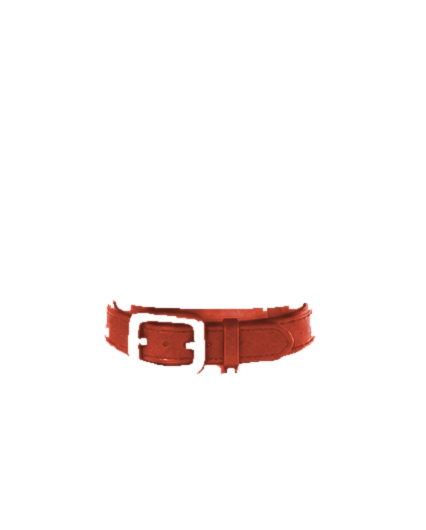
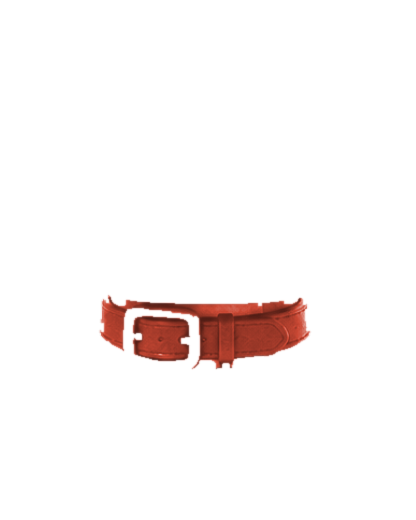
Art: the outline comes off, because it was never the reference's
Operator: "I don't like that art style, it's too Big Nate."

That is the most precise note this art has had and it is correct. A thick
uniform black contour over flat fill IS newspaper-comic language, and it
is the opposite of the target: Brawl Stars and Clash Mini models carry no
outline at all -- their forms are read by shading, occlusion and a lit
edge. The contour was our invention, added in the pass that created
ink.py, and it has been fighting the reference ever since.

I HAD ALREADY OFFERED THIS AND THEN TALKED HIM OUT OF IT. "No outline" was
style C on the first probe sheet, and I ruled it out myself on the grounds
that Barkly carries a baked contour and would be left the only outlined
thing in frame. He does not, and checking took one command:

  assets/barkly/renders/front.png   locked canon, NO contour
  assets/barkly/outlined/front.png  the same file with the world's edge
                                    grown onto it by outline-cast.py,
                                    using promote-props' own function

Side by side the canon render reads as a vinyl toy and the outlined copy
reads as a sticker. The best asset in the game was being flattened by a
finish we applied on top of it, and that finish was reversible the whole
time. The constraint I used to close down the right answer was one I had
assumed rather than checked.

ONE CONSTANT, because the edge was always decided in one place -- which is
[…]

Changed region(s): [[0.2188, 0.5538, 0.75, 0.7077]]

diff --git a/barkly/app/tools/blender/ink.py b/barkly/app/tools/blender/ink.py
@@ -35,6 +35,33 @@ from pathlib import Path
 sys.path.insert(0, str(Path(__file__).resolve().parent))
 from palette import tone  # noqa: E402
 
+#: IS THERE AN EDGE AT ALL? Operator, 2026-09-10: *"I don't like that art
+#: style, it's too Big Nate."*
+#:
+#: That is the most precise note this art has had. A thick uniform black
+#: contour over flat fill IS newspaper-comic language -- and it is the opposite
+#: of the reference: Brawl Stars and Clash Mini models carry NO outline. Their
+#: forms are read by shading, occlusion and a lit edge. The contour was our
+#: invention, added in the pass that named this file, and it has been quietly
+#: fighting the target ever since.
+#:
+#: The evidence that settled it is the hero. `assets/barkly/renders/front.png`
+#: is the locked canon and has no contour; `assets/barkly/outlined/front.png`
+#: is that same file with this edge grown onto it, which is what the app draws.
+#: Side by side the canon render reads as a vinyl toy and the outlined copy
+#: reads as a sticker. The best asset in the game was being flattened by a
+#: finish applied on top of it.
+#:
+#: THE REASON THIS IS ONE CONSTANT and not a rewrite: the edge was always
+#: decided here and applied by three consumers that all ask this module first
+#: (`promote-props.py`, the prop packs' Freestyle, `outline-cast.py`). Turning
+#: it off turns it off everywhere, including on the cast -- `outlined/` becomes
+#: a byte-identical copy of `renders/`, so no app code changes and the canon
+#: renders are untouched, exactly as they were when the contour went on.
+#:
+#: Flip this to True and the whole game has its edge back.
+CONTOUR = False
+
 #: The world's darkest neutral, and the only colour any edge in the game is.
 INK = tone("ink", "deep")
 
@@ -50,6 +77,8 @@ EXEMPT_WORDS = ("shadow", "haze", "glow", "surf")
 
 def takes_ink(path: str) -> bool:
     """Does the prop at this BUILDERS path get an edge at all?"""
+    if not CONTOUR:
+        return False
     if any(path.startswith(prefix) for prefix in EXEMPT_PREFIXES):
         return False
     return not any(word in path for word in EXEMPT_WORDS)
@@ -61,5 +90,11 @@ def contour_width(width: int) -> int:
     A constant pixel count would give the storefront a hairline and the treat
     icon a bruise: they ship at 640 and 224. Proportional keeps the weight even
     once the app has scaled them back into the same world.
+
+    Zero when `CONTOUR` is off, so the one switch reaches the callers that ask
+    for a WIDTH rather than for permission -- `outline-cast.py` and the item
+    icons' inner box both size themselves off this.
     """
+    if not CONTOUR:
+        return 0
     return max(3, round(width * 0.011))

diff --git a/barkly/docs/ART_DIRECTION.md b/barkly/docs/ART_DIRECTION.md
@@ -2225,3 +2225,63 @@ its two low lobes are `foliage.deep` (0.19) now, which is the underside, and an
 underside is meant to be dark. The old note forbidding `deep` there was written
 when the tone alternated over half the canopy — true then, and not true once
 the canopy became a cluster.
+
+## "Too Big Nate" — the outline comes off (2026-09-10)
+
+Operator, on the smoothed and re-toned build: *"I don't like that art style,
+it's too Big Nate."*
+
+That is the most precise note this art has had, and it is correct. A thick
+uniform black contour over flat fill IS newspaper-comic language. It is also
+the opposite of the reference: **Brawl Stars and Clash Mini models carry no
+outline at all** — their forms are read by shading, occlusion and a lit edge.
+The contour was our invention, added in the pass that created `ink.py`, and it
+has been quietly fighting the target ever since.
+
+I had already put "no outline" in front of him as style C and then **ruled it
+out myself, wrongly**, on the grounds that Barkly carries a baked contour and
+would be left the only outlined thing in frame. He does not. The check took one
+command:
+
+* `assets/barkly/renders/front.png` is the locked canon and has **no contour**.
+* `assets/barkly/outlined/front.png` is that same file with the world's edge
+  grown onto it by `outline-cast.py`, using `promote-props`' own function.
+
+Side by side, the canon render reads as a vinyl toy and the outlined copy reads
+as a sticker. The best asset in the game was being flattened by a finish
+applied on top of it — and the finish was reversible the whole time. The
+constraint I used to close down the right answer was one I had assumed rather
+than checked.
+
+### One constant, because the edge was always decided in one place
+
+`ink.CONTOUR = False`. Every consumer already asked this module first, which is
+what that file was written for:
+
+* `promote-props.py` grows the outer edge — `takes_ink()` now returns False, so
+  it returns the image untouched;
+* the prop and scene packs draw internal lines with Freestyle — same call, so
+  Freestyle is off;
+* `outline-cast.py` sizes its dilation from `contour_width()` — now 0, so the
+  cast frames become byte-identical copies of the canon renders.
+
+Measured after: **all 15 cast frames identical to `renders/`**, and no app code
+changed — the app still loads `outlined/`, which is now a faithful copy. The
+canon renders are untouched, exactly as they were when the contour went on.
+
+Flip the constant to `True` and the whole game has its edge back, which is the
+property that made this safe to try at all.
+
+### What now carries the form
+
+The three passes immediately before this one turn out to have been the
+groundwork, though that was not why they were done:
+
+* the **low sun** gives every object a real shadow side and a cast shadow;
+* **`round_off()`** stopped every cylinder, cone and cube rendering its facets,
+  so a curved surface now reads as curved rather than as a polygon fan;
+* the **tone re-specs** gave each prop a genuine dark, so parts separate from
+  each other by value instead of by a line drawn between them.
+
+An outline is a crutch for art that has none of those. Removing it before them
+would have produced mush.
